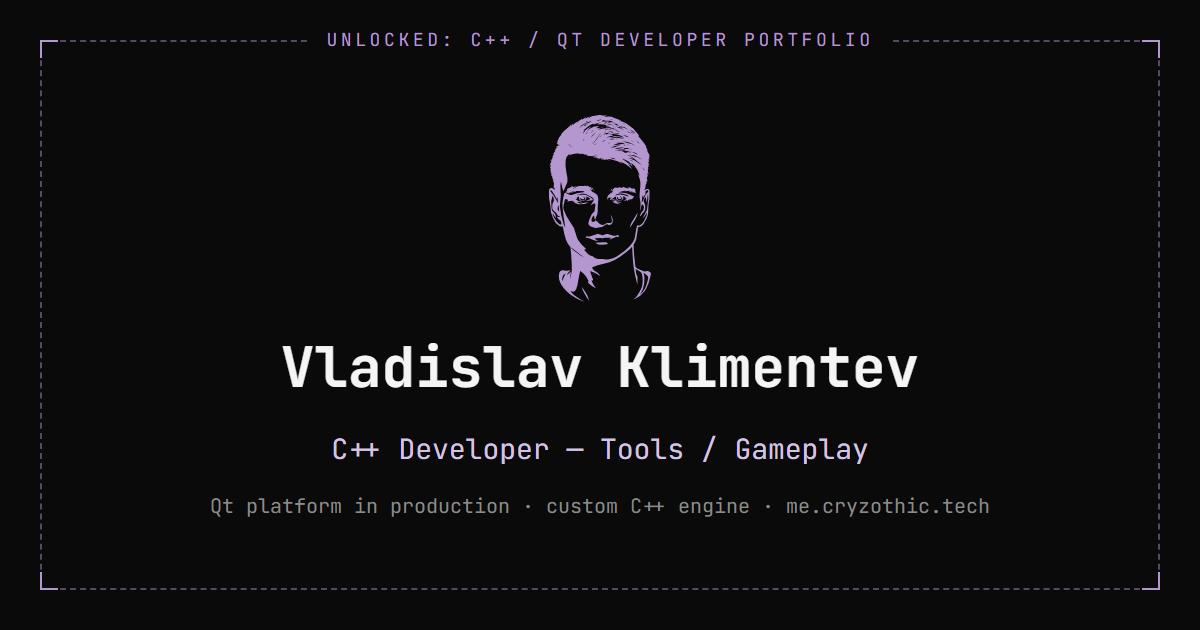
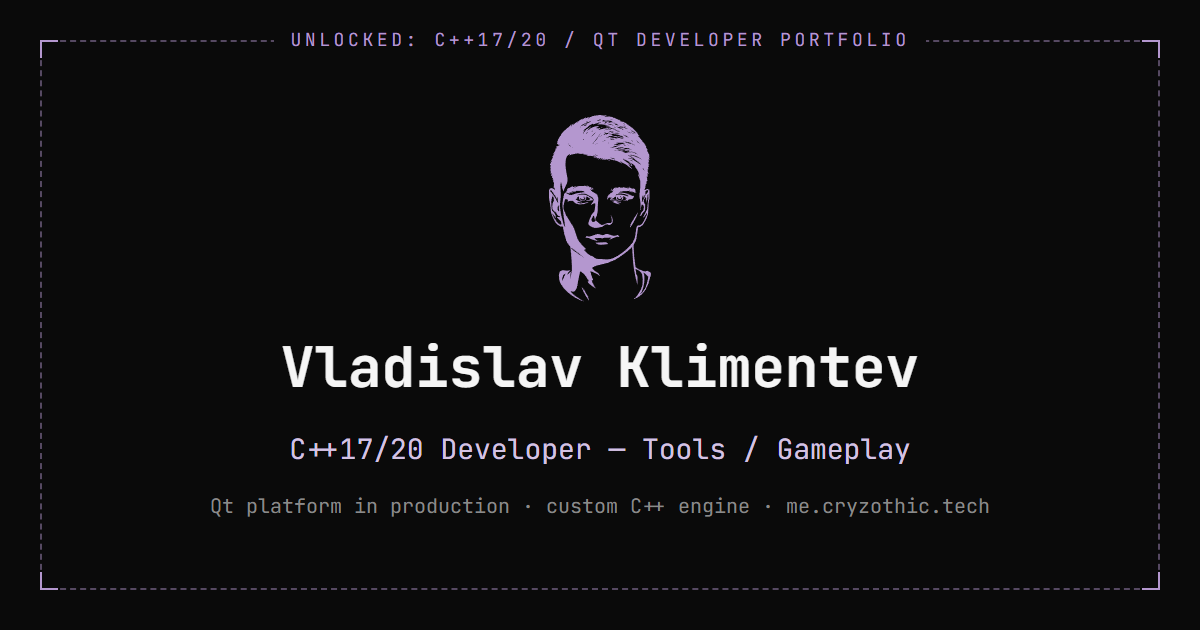
content: C++17/20, EASTL, raylib, revenant

Changed region(s): [[0.2467, 0.0302, 0.7708, 0.0905], [0.2158, 0.6937, 0.7708, 0.754]]

diff --git a/index.html b/index.html
@@ -7,7 +7,7 @@
     <meta name="viewport" content="width=device-width, initial-scale=1.0" />
     <meta
       name="description"
-      content="Vladislav Klimentev - C++/Qt developer (Tools / Gameplay). Interactive portfolio, CV downloads, contacts."
+      content="Vladislav Klimentev - C++17/20 / Qt developer (Tools / Gameplay). Interactive portfolio, CV downloads, contacts."
     />
     <meta name="theme-color" content="#0a0a0a" />
     <link rel="canonical" href="https://me.cryzothic.tech/" />
@@ -19,10 +19,10 @@
     <link rel="alternate" hreflang="x-default" href="https://me.cryzothic.tech/" />
     <meta property="og:type" content="website" />
     <meta property="og:url" content="https://me.cryzothic.tech/" />
-    <meta property="og:title" content="Vladislav Klimentev · C++ Developer" />
+    <meta property="og:title" content="Vladislav Klimentev · C++17/20 Developer" />
     <meta
       property="og:description"
-      content="C++/Qt developer heading into game development (Tools / Gameplay). CV and contacts in one click."
+      content="C++17/20 / Qt developer heading into game development (Tools / Gameplay). CV and contacts in one click."
     />
     <meta property="og:image" content="https://me.cryzothic.tech/og.png" />
     <meta property="og:image:width" content="1200" />
@@ -31,7 +31,7 @@
     <meta property="og:locale:alternate" content="ru_RU" />
     <meta name="twitter:card" content="summary_large_image" />
     <meta name="twitter:image" content="https://me.cryzothic.tech/og.png" />
-    <title>Vladislav Klimentev · C++ Developer</title>
+    <title>Vladislav Klimentev · C++17/20 Developer</title>
   </head>
   <body>
     <div id="root"></div>

diff --git a/og/card.html b/og/card.html
@@ -56,10 +56,10 @@
   <div class="frame">
     <span class="corner tl"></span><span class="corner tr"></span>
     <span class="corner bl"></span><span class="corner br"></span>
-    <span class="status" data-ru="РАЗБЛОКИРОВАНО: портфолио C++ / Qt разработчика">UNLOCKED: C++ / Qt Developer Portfolio</span>
+    <span class="status" data-ru="РАЗБЛОКИРОВАНО: портфолио C++17/20 / Qt разработчика">UNLOCKED: C++17/20 / Qt Developer Portfolio</span>
     <div class="face"></div>
     <h1 data-ru="Владислав Климентьев">Vladislav Klimentev</h1>
-    <div class="role" data-ru="C++ разработчик — Tools / Gameplay">C++ Developer — Tools / Gameplay</div>
+    <div class="role" data-ru="C++17/20 разработчик — Tools / Gameplay">C++17/20 Developer — Tools / Gameplay</div>
     <div class="proof" data-ru="Qt-платформа в проде · собственный движок на C++ · me.cryzothic.tech">Qt platform in production · custom C++ engine · me.cryzothic.tech</div>
   </div>
   <script>

diff --git a/src/i18n/strip.ts b/src/i18n/strip.ts
@@ -22,7 +22,7 @@ export const STRIP: Record<
 > = {
   en: {
     name: 'Vladislav Klimentev',
-    role: 'C++ Developer · Tools / Gameplay',
+    role: 'C++17/20 Developer · Tools / Gameplay',
     cvMenu: 'CV language',
     quickActions: 'Quick actions',
     email: 'Email',
@@ -30,7 +30,7 @@ export const STRIP: Record<
   },
   ru: {
     name: 'Владислав Климентьев',
-    role: 'C++ разработчик · Tools / Gameplay',
+    role: 'C++17/20 разработчик · Tools / Gameplay',
     cvMenu: 'Язык резюме',
     quickActions: 'Быстрые действия',
     email: 'Почта',

diff --git a/README.md b/README.md
@@ -1,6 +1,6 @@
 # me.cryzothic.tech
 
-Interactive, game-shell portfolio of **Vladislav Klimentev** - C++/Qt developer moving
+Interactive, game-shell portfolio of **Vladislav Klimentev** - C++17/20 / Qt developer moving
 into game development (tools / gameplay track).
 
 > Demo GIF: TBA
